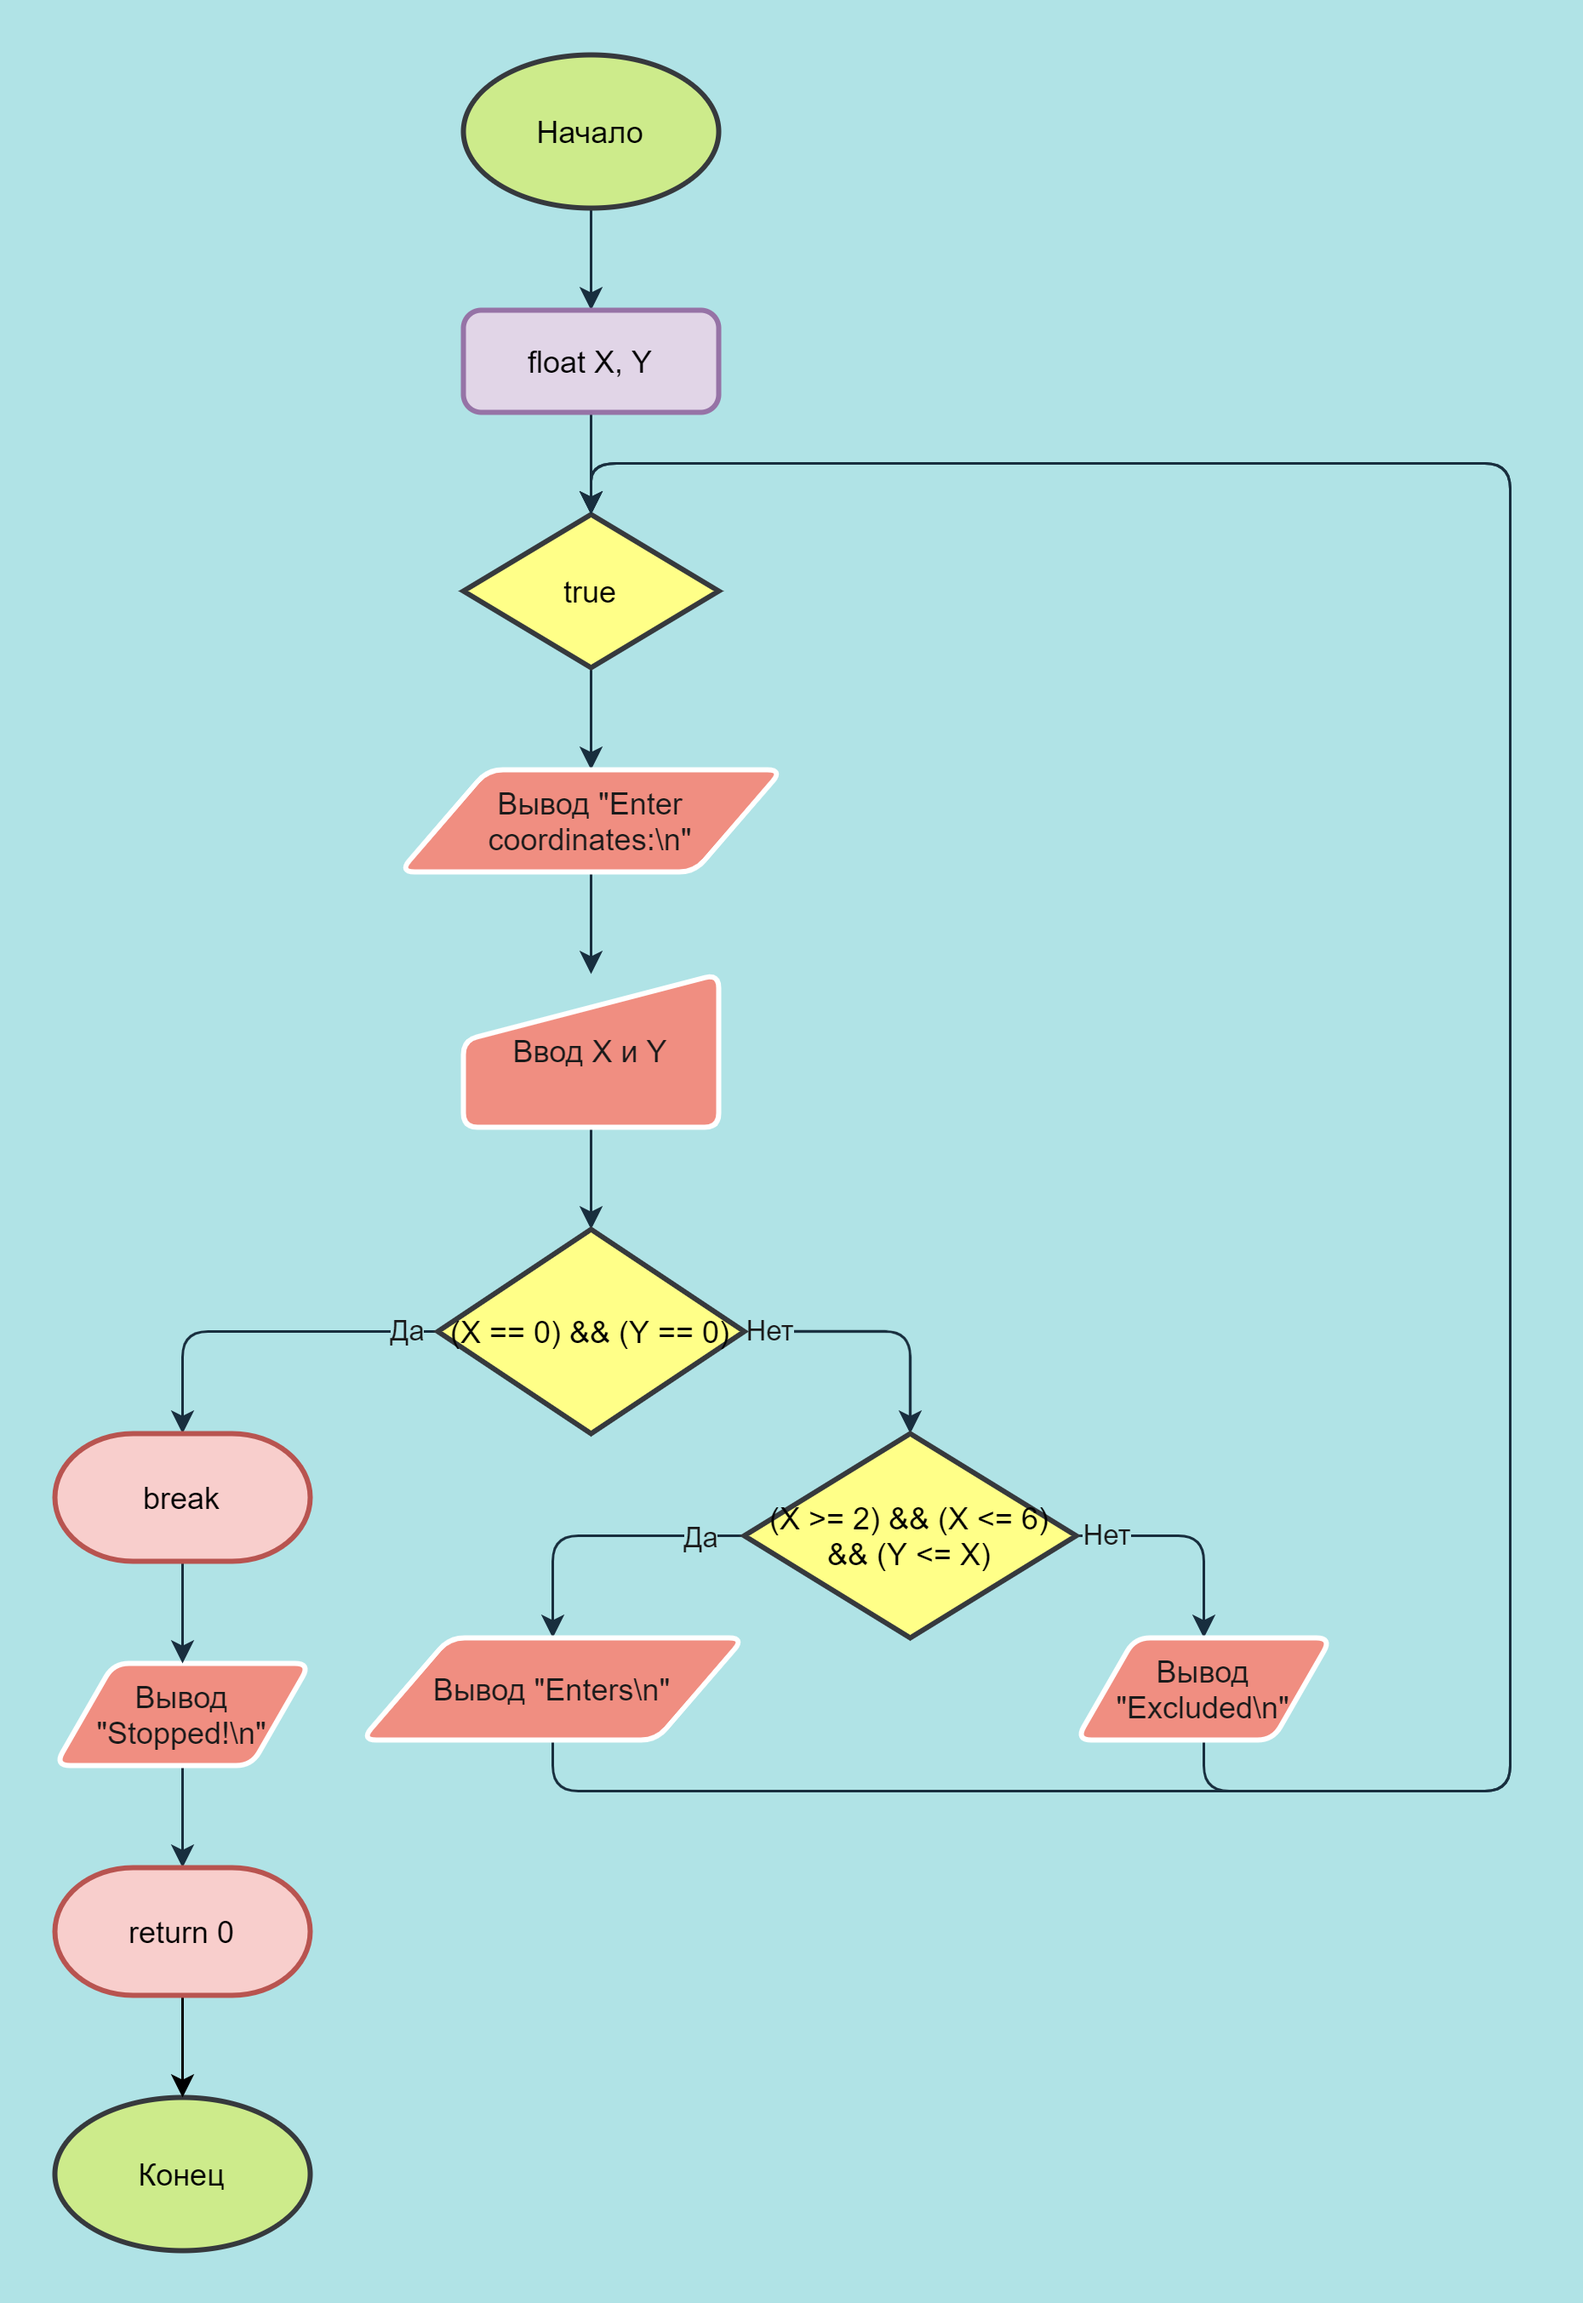
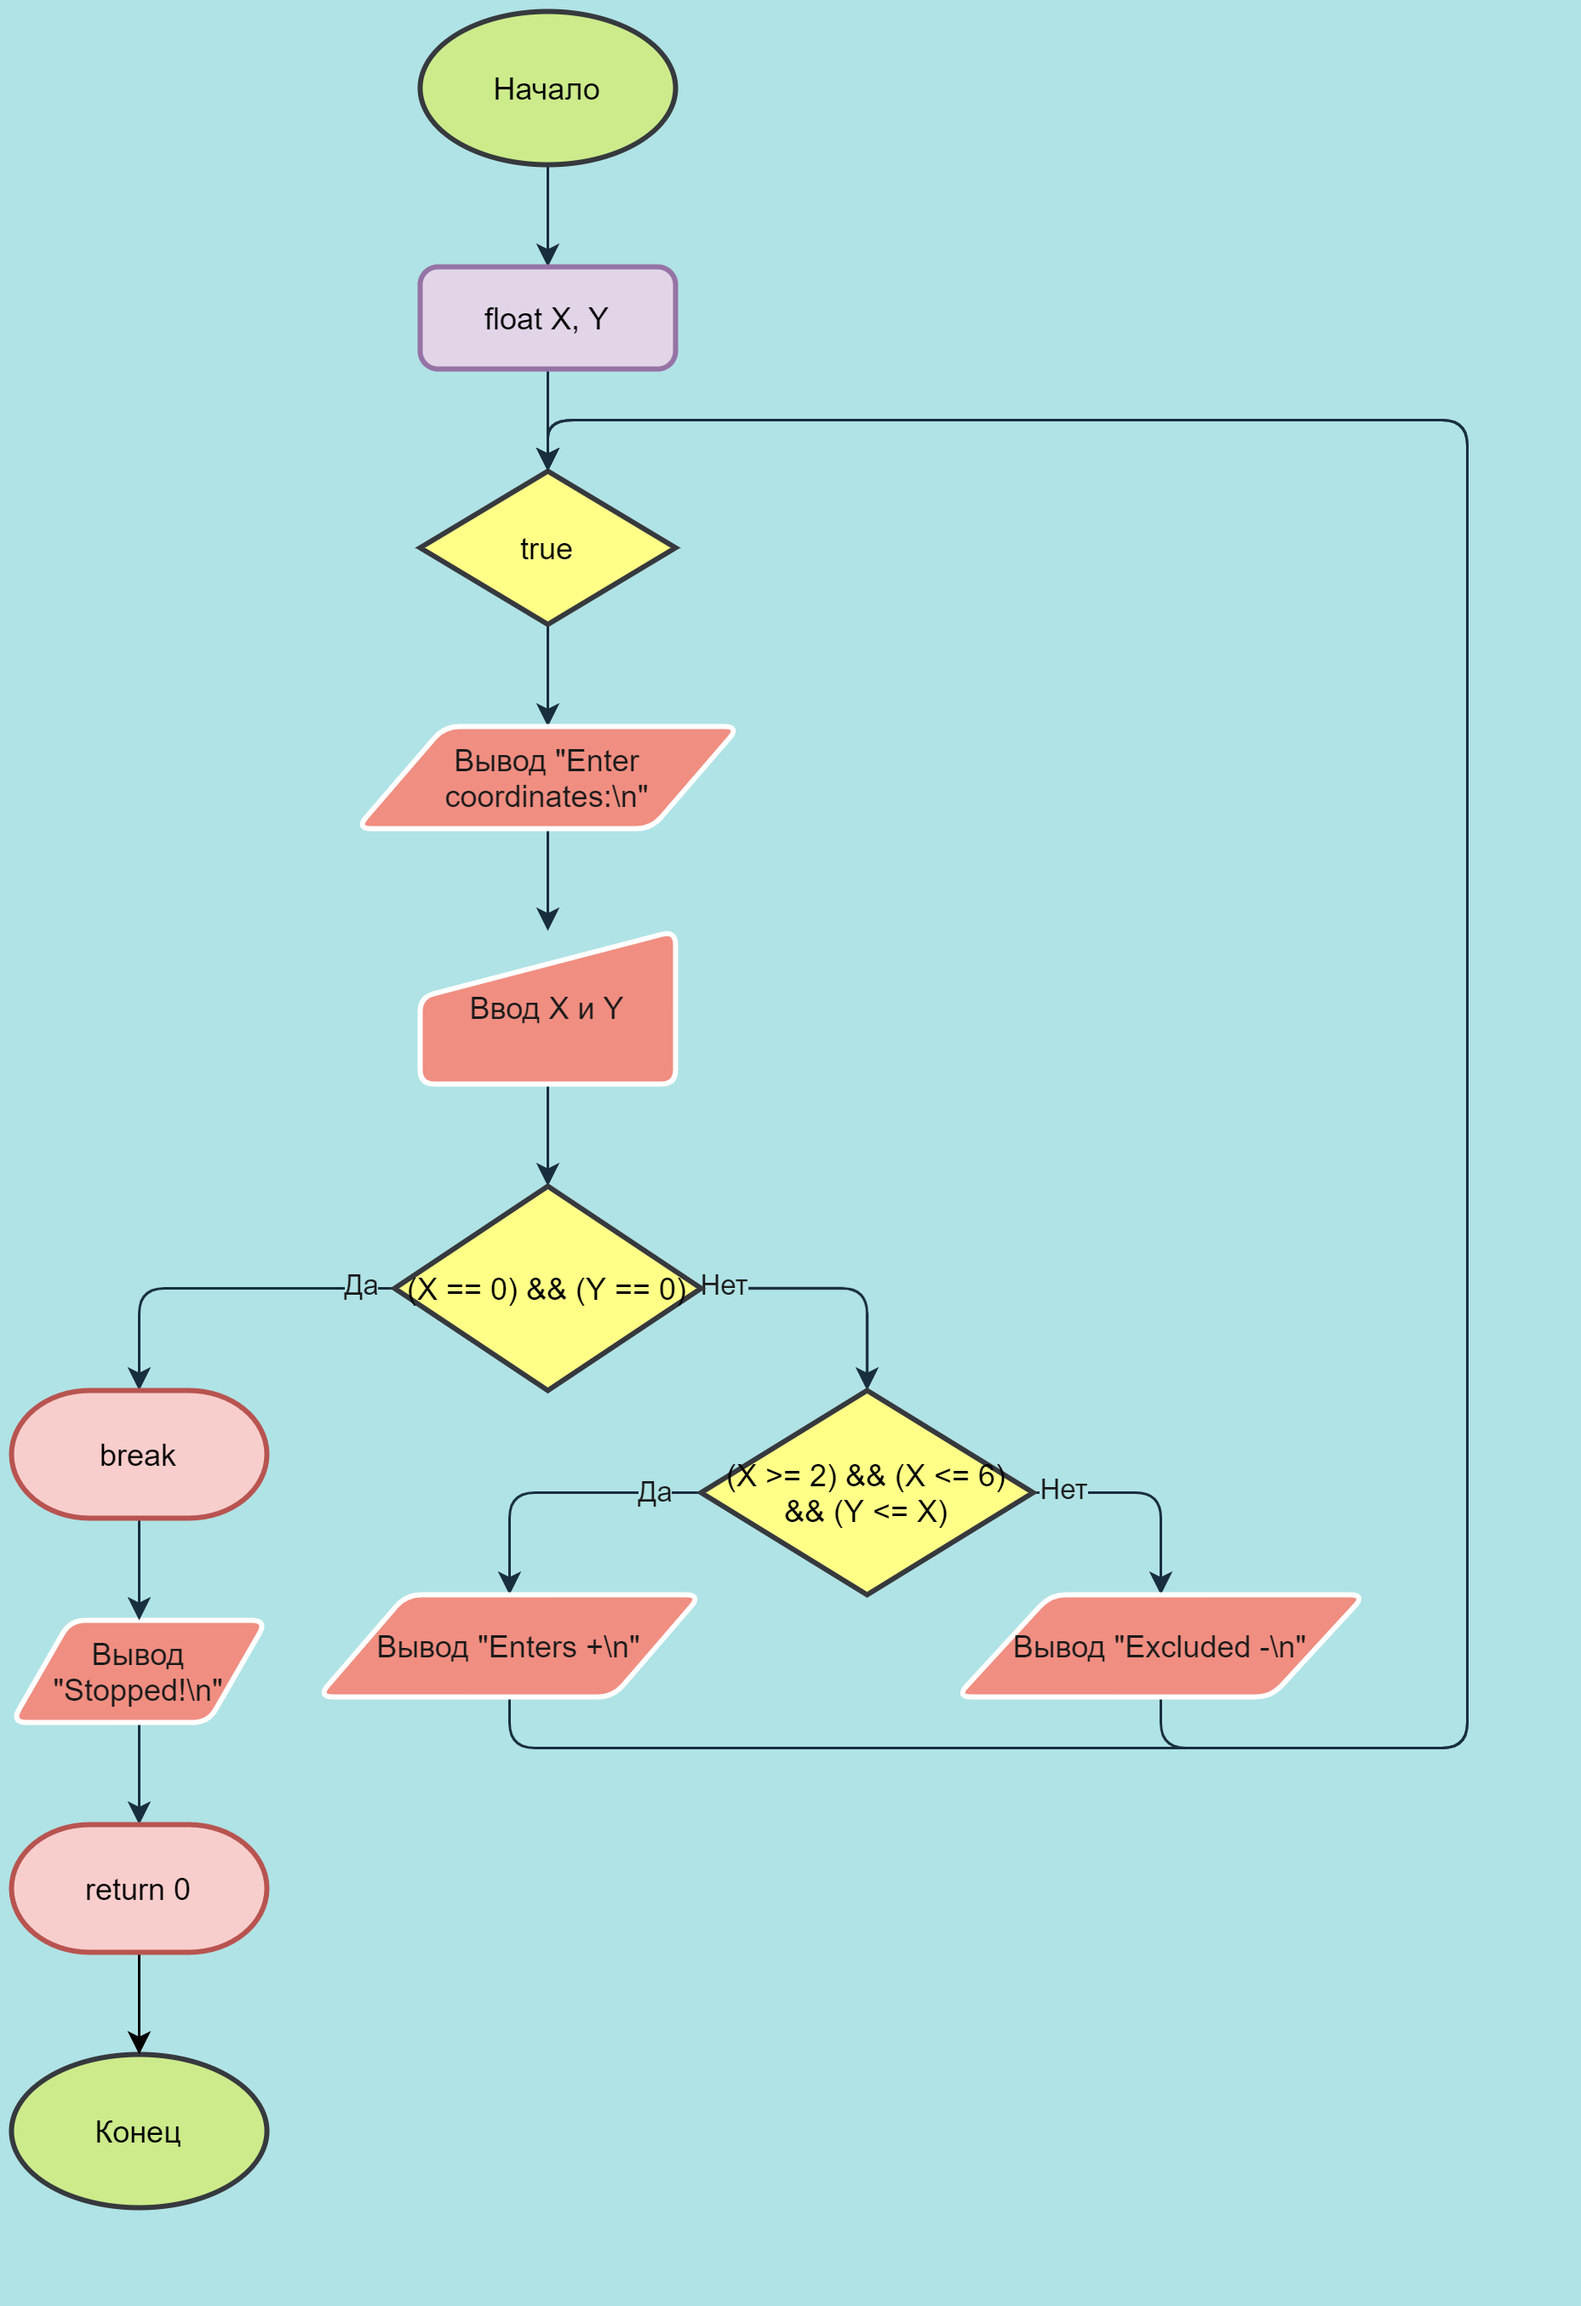
Performance boost

Changed region(s): [[0.0, 0.5588, 0.8745, 0.9933], [0.2186, 0.0, 0.4997, 0.6208]]

diff --git a/Lab4/main.cpp b/Lab4/main.cpp
@@ -1,7 +1,5 @@
 #include <iostream>
 
-using namespace std;
-
 /*
   С клавиатуры вводится целочисленный массив из девяти элементов.
   Необходимо:
@@ -16,7 +14,7 @@ using namespace std;
 int main()
 {
     int input[9];
-    for (int i = 0; i < 9; i++) cin >> input[i];
+    for (int i = 0; i < 9; i++) std::cin >> input[i];
 
     int maxKey = 1;
     int maxSum;
@@ -42,19 +40,19 @@ int main()
         }
     }
 
-    cout << "(1): " << maxKey << endl;
+    std::cout << "(1): " << maxKey << "\n";
 
-    cout << "(2):";
+    std::cout << "(2):";
     for (int i = 2; i >= 0; i--)
     {
-        cout << " " << maxInThree[i];
+        std::cout << " " << maxInThree[i];
     }
-    // delete[] maxInThree;
-    cout << endl;
+
+    std::cout << "\n";
 
     bool flag = false;
     int nextNum;
-    cout << "(3):";
+    std::cout << "(3):";
     for (int i = 0; i < 9; i++)
     {
         if ((input[i] & (input[i] - 1) != 0) && (input[i] != 0))
@@ -65,7 +63,7 @@ int main()
 
         if (flag && (input[i] != nextNum)) break;
 
-        cout << " " << input[i];
+        std::cout << " " << input[i];
 
         if (!flag)
         {
@@ -73,7 +71,8 @@ int main()
             nextNum = input[i] * 2;
         }
     }
-    cout << endl;
+
+    std::cout << "\n";
 
     // Шейкер сортировка
     int left = 1;
@@ -83,27 +82,27 @@ int main()
         sorted = false;
         for (int i = left; i <= right; i++) {
             if (input[i - 1] > input[i]) {
-                swap(input[i - 1], input[i]);
+                std::swap(input[i - 1], input[i]);
                 sorted = true;
             }
         }
         right--;
         for (int i = right; i >= left; i--) {
             if (input[i - 1] > input[i]) {
-                swap(input[i - 1], input[i]);
+                std::swap(input[i - 1], input[i]);
                 sorted = true;
             }
         }
         left++;
     } while (sorted);
 
-    cout << "(4):";
+    std::cout << "(4):";
     for (int i = 0; i < 9; i++)
     {
-        cout << " " << input[i];
+        std::cout << " " << input[i];
     }
-    cout << endl;
+    std::cout << "\n";
 
-    // delete[] input;
+    system("pause");
     return 0;
 }

diff --git a/Lab5/main.cpp b/Lab5/main.cpp
@@ -1,7 +1,5 @@
 #include <iostream>
 
-using namespace std;
-
 /*
   Ввод:
   С клавиатуры вводится двумерный массив целых чисел размерностью 3х3. Затем вводится натуральная n.
@@ -12,32 +10,25 @@ using namespace std;
 int main()
 {
     const int size = 3;
-    unsigned long long result[size][size], array[size][size];
+    unsigned long long array[size][size], temp[size][size];
 
-    cout << "Enter numbers: ";
+    std::cout << "Enter numbers: ";
 
     for (int i = 0; i < size; i++)
     {
         for (int j = 0; j < size; j++)
         {
-            cin >> array[i][j];
-            result[i][j] = array[i][j];
+            std::cin >> array[i][j];
+            temp[i][j] = array[i][j];
         }
     }
 
     int power;
 
-    cout << "Enter power: ";
-    cin >> power;
+    std::cout << "Enter power: ";
+    std::cin >> power;
 
-    unsigned long long temp[size][size];
-    for (int i = 0; i < size; i++)
-    {
-        for (int j = 0; j < size; j++)
-        {
-            temp[i][j] = 0;
-        }
-    }
+    unsigned long long result[size][size] = { 0 };
 
     for (int p = 1; p < power; p++)
     {
@@ -47,31 +38,22 @@ int main()
             {
                 for (int k = 0; k < size; k++)
                 {
-                    temp[i][j] += result[i][k] * array[k][j];
+                    result[i][j] += array[k][j] * temp[i][k];
                 }
             }
         }
-
-        for (int i = 0; i < size; i++)
-        {
-            for (int j = 0; j < size; j++)
-            {
-                result[i][j] = temp[i][j];
-                temp[i][j] = 0;
-            }
-        }
     }
-    // delete[] temp, array;
-
 
     for (int i = 0; i < size; i++)
     {
         for (int j = 0; j < size; j++)
         {
-            cout << result[i][j] << " ";
+            std::cout << result[i][j] << " ";
         }
-        cout << endl;
+
+        std::cout << "\n";
     }
-    // delete[] result;
+
+    system("pause");
     return 0;
 }

diff --git a/Lab2/main.cpp b/Lab2/main.cpp
@@ -1,7 +1,5 @@
 #include <iostream>
 
-using namespace std;
-
 /*
   Задача: С клавиатуры вводится последовательность целых чисел признак окончания ввода - "0".
   Необходимо вывести на экран:
@@ -24,9 +22,9 @@ int main()
     int numberSum = 0;
     int positiveAmount = 0;
 
-    cout << "Enter numbers:\n";
+    std::cout << "Enter numbers:\n";
 
-    cin >> X;
+    std::cin >> X;
     minNumber = X;
 
     while (true)
@@ -46,13 +44,15 @@ int main()
         numberSum += X;
         numberAmount++;
 
-        cin >> X;
+        std::cin >> X;
     }
 
     int averageNumber = float(numberSum) / (numberAmount == 0) ? 1 : numberAmount;
 
-    cout << "Minimum number: " << minNumber << endl;
-    cout << "Average: " << averageNumber << endl;
-    cout << "Positive numbers: " << positiveAmount << endl;
+    std::cout << "Minimum number: " << minNumber << "\n";
+    std::cout << "Average: " << averageNumber << "\n";
+    std::cout << "Positive numbers: " << positiveAmount << "\n";
+
+    system("pause");
     return 0;
 }

diff --git a/Lab1/main.cpp b/Lab1/main.cpp
@@ -1,7 +1,5 @@
 #include <iostream>
 
-using namespace std;
-
 /*
   Задача: Треугольник с координатам (2; 6), (6; 6), (6; 2). Проверить входит ли точка в треугольник.
   Ввод: Целое положительные числа X и Y.
@@ -14,21 +12,23 @@ int main()
     float X, Y;
     while (true)
     {
-        cout << "Enter coordinates:\n";
-        cin >> X >> Y;
+        std::cout << "Enter coordinates:\n";
+        std::cin >> X >> Y;
 
         if ((X == 0) && (Y == 0)) break;
 
         if ((X >= 2) && (X <= 6) && (Y <= X))
         {
-            cout << "Enters\n";
+            std::cout << "Enters +\n";
         }
         else
         {
-            cout << "Excluded\n";
+            std::cout << "Excluded -\n";
         }
     }
 
-    cout << "Stopped!\n";
+    std::cout << "Stopped!\n";
+
+    system("pause");
     return 0;
 }

diff --git a/Lab3/main.cpp b/Lab3/main.cpp
@@ -1,7 +1,5 @@
 #include <iostream>
 
-using namespace std;
-
 /*
   Задача: Вывести на экран все простые числа не превышающие число N.
   Ввод: Целое положительное число N.
@@ -12,12 +10,12 @@ using namespace std;
 int main()
 {
     int N;
-    cout << "Enter number N: ";
-    cin >> N;
+    std::cout << "Enter number N: ";
+    std::cin >> N;
 
     int dozens = 10;
 
-    if (N >= 2) cout << "2 ";
+    if (N >= 2) std::cout << "2 ";
 
     for (int i = 3; i <= N; i += 2)
     {
@@ -35,12 +33,14 @@ int main()
         {
             if (i > dozens)
             {
-                cout << endl;
+                std::cout << "\n";
             }
 
-            cout << i << " ";
+            std::cout << i << " ";
             dozens = ((i / 10 + 1) * 10);
         }
     }
+
+    system("pause");
     return 0;
 }
